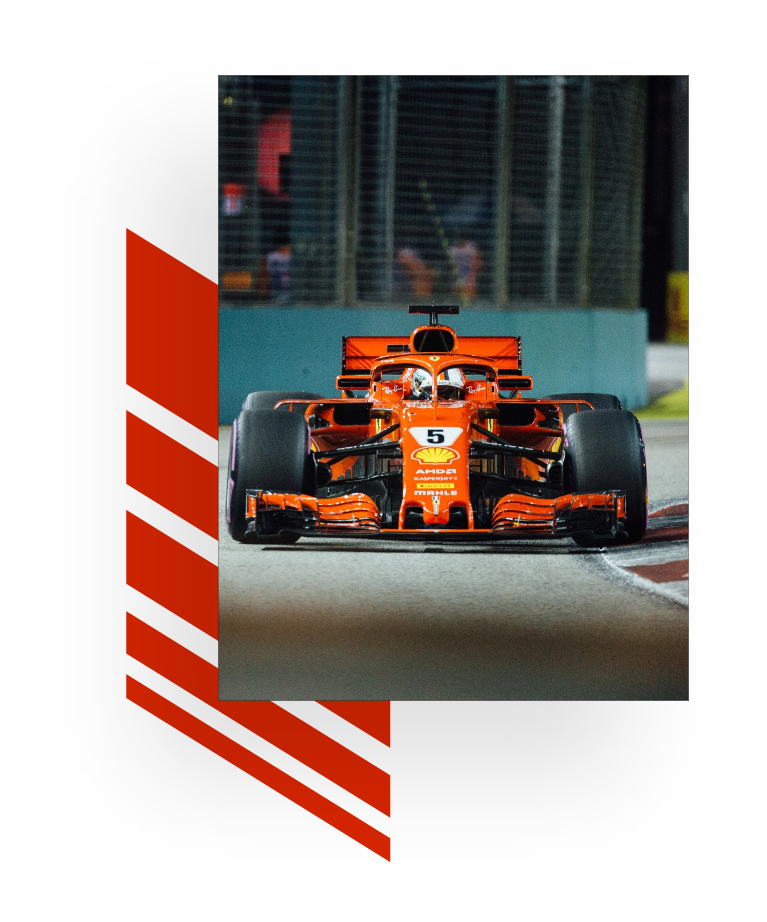
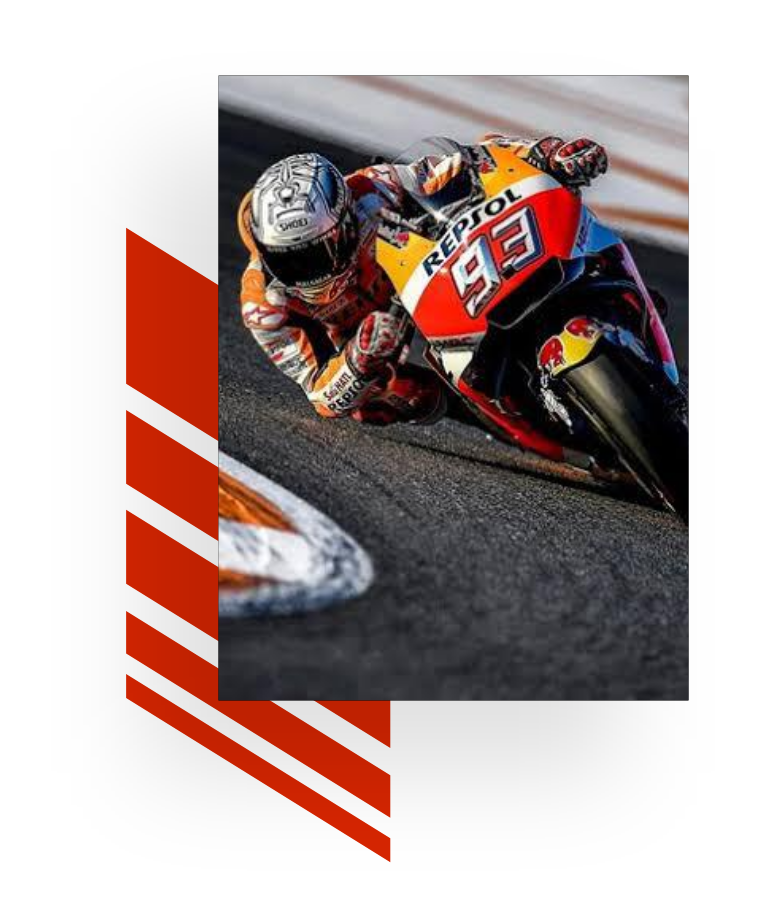
commit

diff --git a/index.php b/index.php
@@ -18,8 +18,7 @@ include 'header.php';
                         We Have The Formula!
                     </h1>
                     <p>
-                        Detailed statistical analysis trading across motorsport events around the globe that gives you
-                        monthly dividend payments.
+                        Detailed Statistical Analysis Trading Across Motorsport Events Around The Globe
                     </p>
                     <a href="register.php" class="btn btn-secondary mt-4 mt-md-5 px-3">
                         REGISTER TODAY <i class="bi bi-arrow-right ml-3"></i>
@@ -53,17 +52,12 @@ include 'header.php';
         <div class="social-fixed d-none d-md-block d-lg-block">
             <ul class="nav flex-column">
                 <li class="nav-item">
-                    <a href="#" class="nav-link px-0" title="Linkedin">
-                        <i class="bi bi-linkedin"></i>
-                    </a>
-                </li>
-                <li class="nav-item">
-                    <a href="#" class="nav-link px-0" title="twitter">
+                    <a href="https://twitter.com/motoindexhq" target="_blank" class="nav-link px-0" title="twitter">
                         <i class="bi bi-twitter"></i>
                     </a>
                 </li>
                 <li class="nav-item">
-                    <a href="#" class="nav-link px-0" title="instagram">
+                    <a href="https://www.instagram.com/motoindexhq" target="_blank" class="nav-link px-0" title="instagram">
                         <i class="bi bi-instagram"></i>
                     </a>
                 </li>
@@ -134,13 +128,17 @@ include 'header.php';
         <div class="container">
             <div class="row align-items-center">
                 <div class="col-lg-5 col-md-6 mb-3 mb-md-0">
-                    <img src="images/img1@2x.png" class="w-100" alt="about-content-img">
+                    <img src="images/img1.png" class="w-100" alt="about-content-img">
                 </div>
                 <div class="col-lg-7 col-md-6">
                     <div class="body-inner text-center">
                         <h1>
                             How it works
                         </h1>
+                        <p>
+                            Detailed statistical analysis trading across motorsport events around the globe that gives
+                            you monthly dividend payments.
+                        </p>
                         <ul class="nav justify-content-center mt-4 mt-lg-5">
                             <li class="nav-item">
                                 <div class="sr-num">
@@ -370,7 +368,8 @@ include 'header.php';
                 <div class="row">
 
                     <div class="col-lg-6 mb-4 mb-lg-0">
-                        <div class="section-right d-flex align-items-center justify-content-center h-100 position-relative">
+                        <div
+                            class="section-right d-flex align-items-center justify-content-center h-100 position-relative">
                             <img class="img-1" src="images/circle3.svg" alt="circle-img">
                             <img class="img-2" src="images/circles2.svg" alt="circle-img">
                             <div class="inner-content">
@@ -443,7 +442,8 @@ include 'header.php';
                                 </div>
                                 <div class="row g-4">
                                     <div class="col-md-12 mb-3">
-                                        <div class="g-recaptcha" data-sitekey="6Lf1j6cfAAAAAADI-9p5n1y7vPr8NMQJeFdG6W8a"></div>
+                                        <div class="g-recaptcha"
+                                            data-sitekey="6Lf1j6cfAAAAAADI-9p5n1y7vPr8NMQJeFdG6W8a"></div>
                                         <div class="text-danger captcha-error"> </div>
                                     </div>
                                 </div>

diff --git a/footer.php b/footer.php
@@ -19,17 +19,12 @@
                 <div class="col-md-4 col-lg-6">
                     <ul class="nav justify-content-end">
                         <li class="nav-item">
-                            <a href="#" class="nav-link" title="Linkedin">
-                                <i class="bi bi-linkedin"></i>
-                            </a>
-                        </li>
-                        <li class="nav-item">
-                            <a href="#" class="nav-link" title="twitter">
+                            <a href="https://twitter.com/motoindexhq" target="_blank" class="nav-link" title="twitter">
                                 <i class="bi bi-twitter"></i>
                             </a>
                         </li>
                         <li class="nav-item">
-                            <a href="#" class="nav-link" title="Instagram">
+                            <a href="https://www.instagram.com/motoindexhq" target="_blank" class="nav-link" title="Instagram">
                                 <i class="bi bi-instagram"></i>
                             </a>
                         </li>

diff --git a/templates/register_mail.php b/templates/register_mail.php
@@ -397,7 +397,7 @@
                                                                     </ul>
                                                                 </td>
                                                                 <td class="mobile-p mob-td" align="right" style="padding:10px 40px 0px 40px; font-family: 'Roboto', sans-serif;line-height: 1.5; font-weight:400;">
-                                                                    <a href="#" style="margin-right:5px;">
+                                                                    <a href="https://twitter.com/motoindexhq" style="margin-right:5px;">
                                                                         <img src="http://accounts.moto-index.com/images/email/twitter.png" alt="twitter-icon">
                                                                     </a>
                                                                 </td>

diff --git a/templates/contact_mail.php b/templates/contact_mail.php
@@ -389,7 +389,7 @@
 																	</ul>
 																</td>
 																<td class="mobile-p mob-td" align="right" style="padding:10px 40px 0px 40px; font-family: 'Roboto', sans-serif;line-height: 1.5; font-weight:400;">
-																	<a href="#" style="margin-right:5px;">
+																	<a href="https://twitter.com/motoindexhq" style="margin-right:5px;">
                                                                         <img src="http://accounts.moto-index.com/images/email/twitter.png" alt="twitter-icon">
                                                                     </a>
 																</td>
